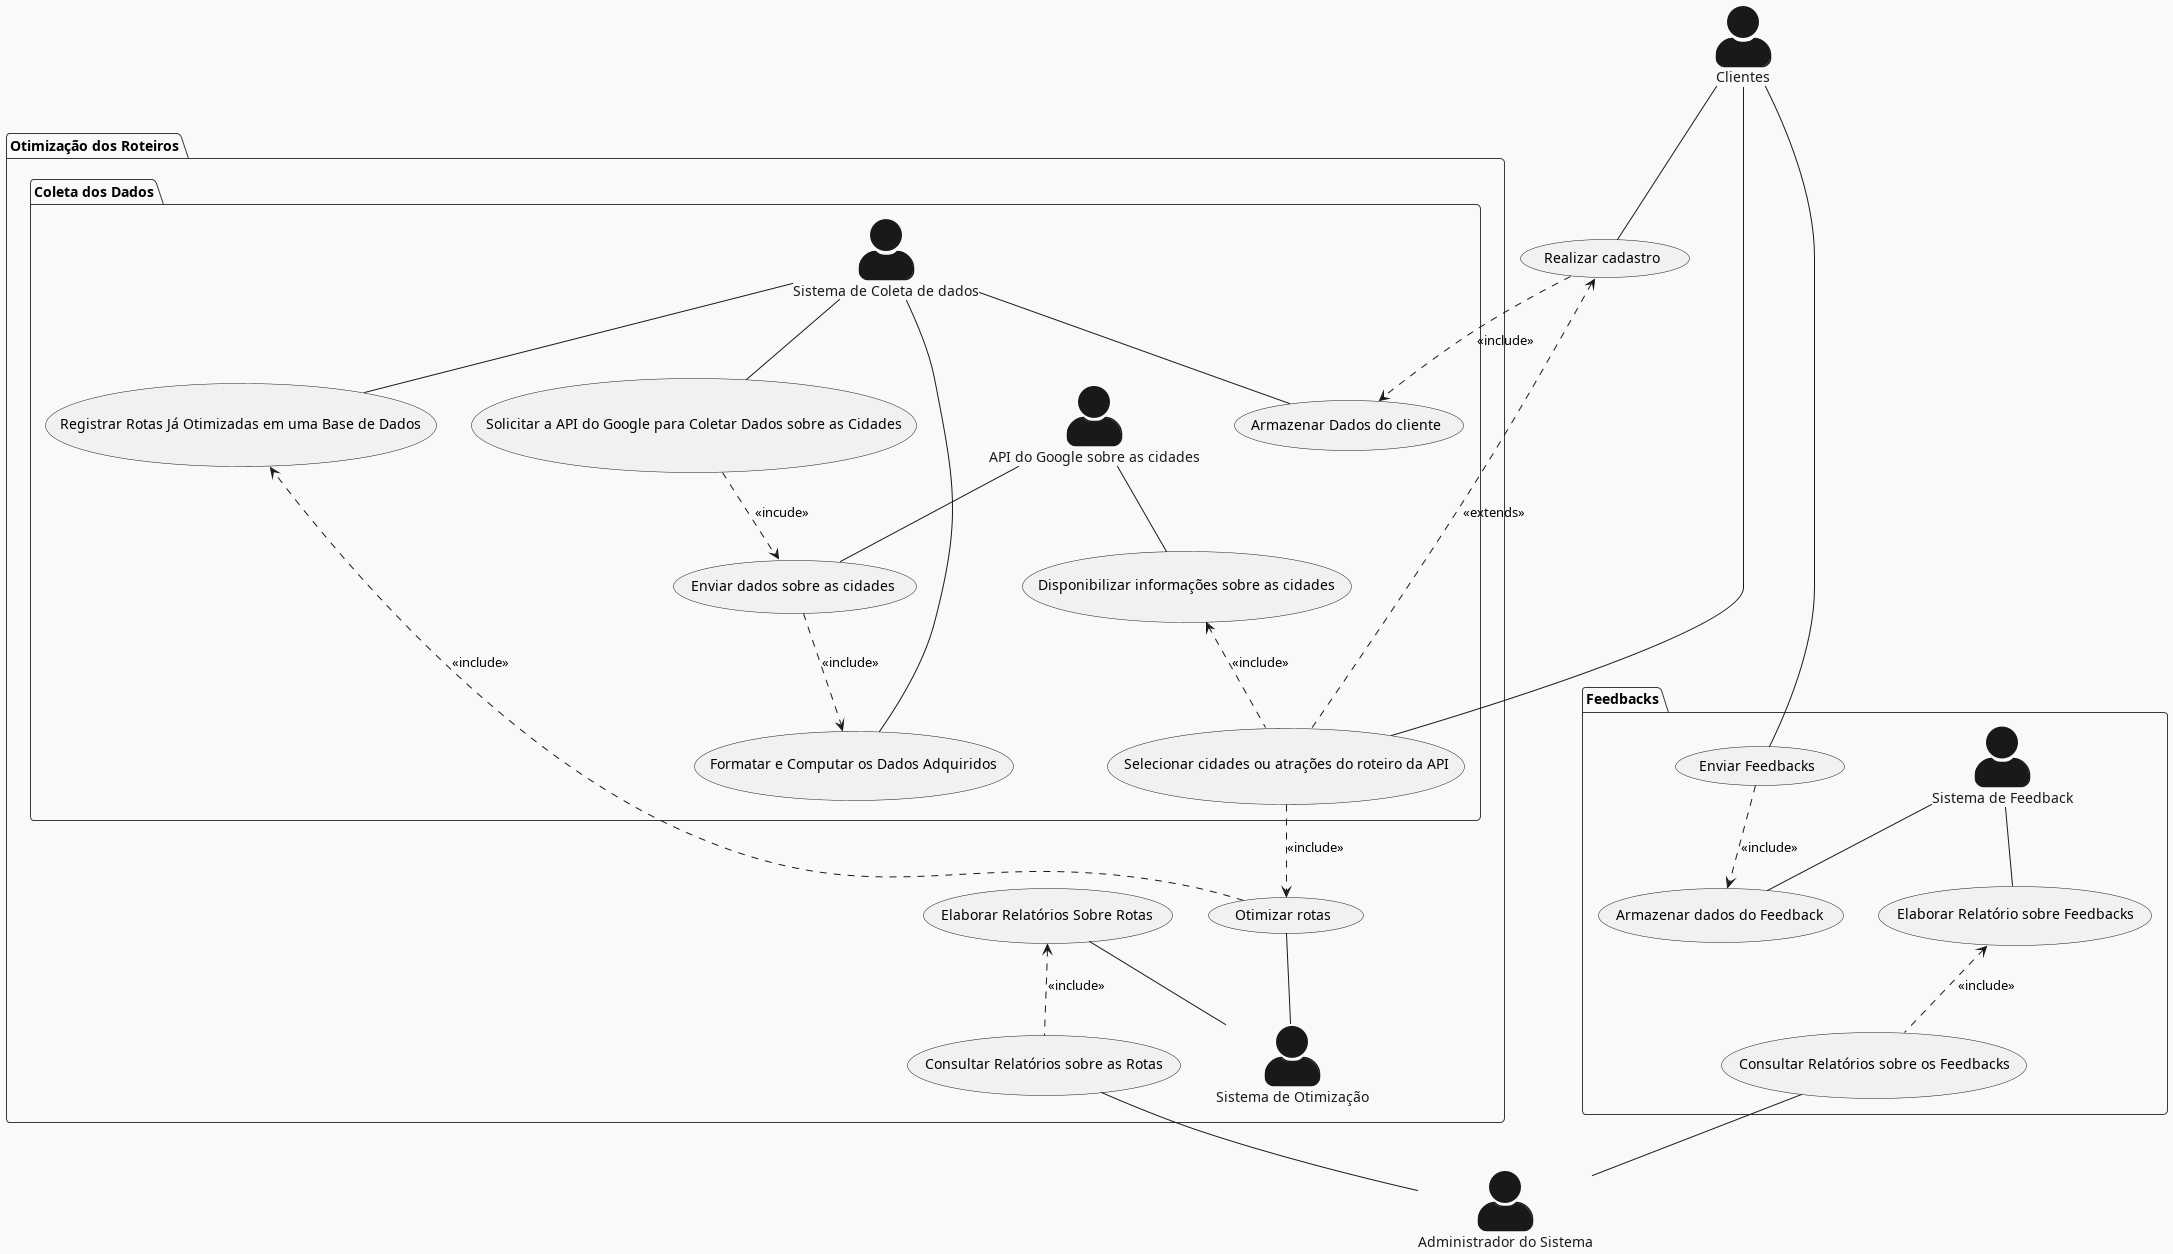
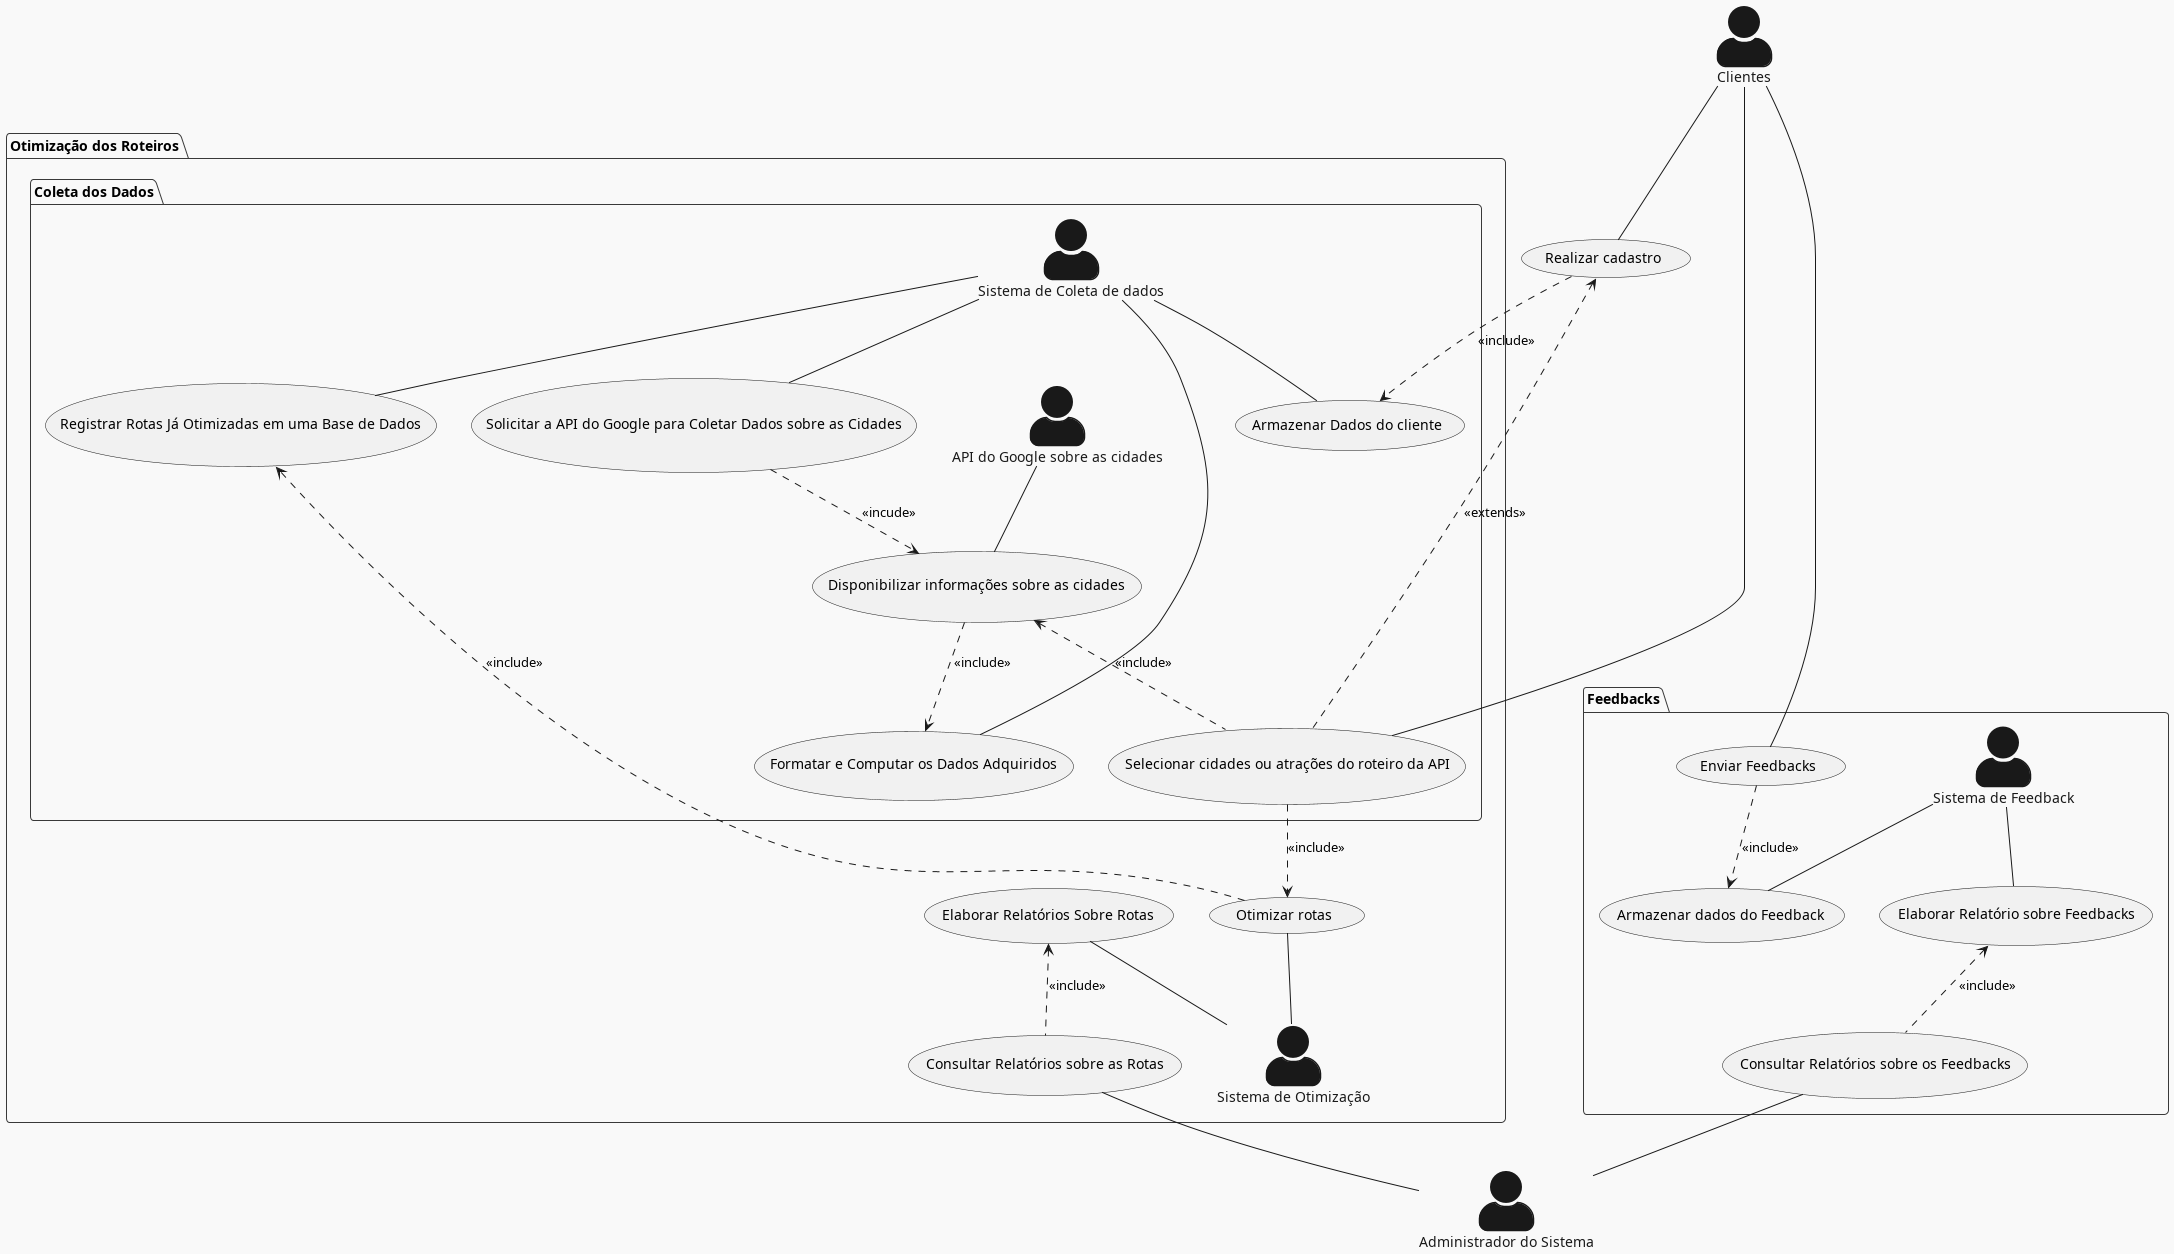
Correções DFD

diff --git a/Relatório/Semana-1/Diagramas/DCU.md b/Relatório/Semana-1/Diagramas/DCU.md
@@ -25,15 +25,14 @@ actor "Sistema de Otimização" as  otimizador
         
         (Selecionar cidades ou atrações do roteiro da API) ..> (Otimizar rotas): <<include>>
 
-        (Solicitar a API do Google para Coletar Dados sobre as Cidades) ..> (Enviar dados sobre as cidades) : <<incude>>
+        (Solicitar a API do Google para Coletar Dados sobre as Cidades) ..> (Disponibilizar informações sobre as cidades) : <<incude>>
         coletador -- (Solicitar a API do Google para Coletar Dados sobre as Cidades)
         coletador -- (Registrar Rotas Já Otimizadas em uma Base de Dados)
         coletador -- (Formatar e Computar os Dados Adquiridos)
-        API -- (Enviar dados sobre as cidades)
         API -- (Disponibilizar informações sobre as cidades)
         (Disponibilizar informações sobre as cidades) <.. (Selecionar cidades ou atrações do roteiro da API) : <<include>>
         (Otimizar rotas) ..> (Registrar Rotas Já Otimizadas em uma Base de Dados) : <<include>>
-
+        (Disponibilizar informações sobre as cidades) ..> (Formatar e Computar os Dados Adquiridos):<<include>>
         (Realizar cadastro) ..> (Armazenar Dados do cliente): <<include>>
 
         coletador -- (Armazenar Dados do cliente)
@@ -56,7 +55,6 @@ actor "Sistema de Otimização" as  otimizador
 
 
 (Realizar cadastro) <.. (Selecionar cidades ou atrações do roteiro da API) : <<extends>>
-(Enviar dados sobre as cidades) ..> (Formatar e Computar os Dados Adquiridos) : <<include>>
 
 
 package "Feedbacks"{
